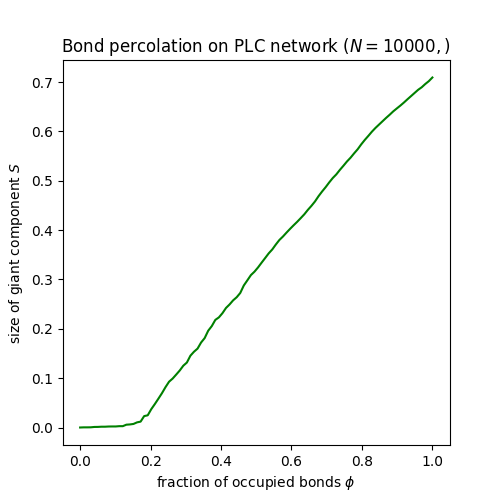
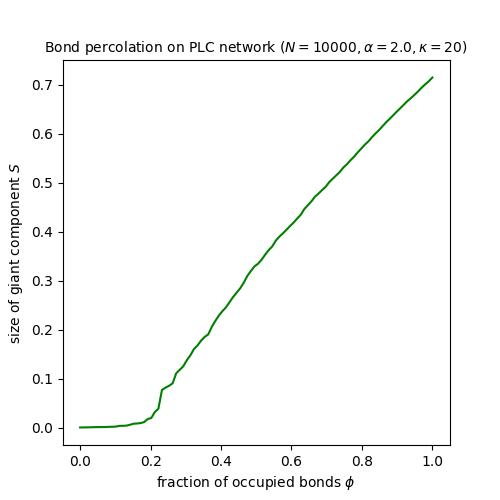
Fixed plot generation for new data format, added ER networks

diff --git a/utils/make-percolation.py b/utils/make-percolation.py
@@ -1,6 +1,6 @@
 # Create the percolation diagrams for the Newman-Ziff algorithm
 #
-# Copyright (C) 2017--2021 Simon Dobson
+# Copyright (C) 2017--2022 Simon Dobson
 #
 # This file is part of epydemic, epidemic network simulations in Python.
 #
@@ -17,51 +17,83 @@
 # You should have received a copy of the GNU General Public License
 # along with epydemic. If not, see <http://www.gnu.org/licenses/gpl.html>.
 
-from epydemic import BondPercolation, SitePercolation, PLCNetwork
+from epydemic import BondPercolation, SitePercolation, ERNetwork, PLCNetwork
 from epyc import Experiment
 import matplotlib.pyplot as plt
 
 # network topological parameters
 N = 10000
+kmean = 20
 alpha = 2.0
 kappa = 20
 
 params = dict()
+params[ERNetwork.N] = N
+params[ERNetwork.KMEAN] = kmean
 params[PLCNetwork.N] = N
 params[PLCNetwork.EXPONENT] = alpha
 params[PLCNetwork.CUTOFF] = kappa
 
-# construct a network
-g = PLCNetwork().set(params).generate()
+# construct networks
+g_er = ERNetwork().set(params).generate()
+g_plc = PLCNetwork().set(params).generate()
 
-# bond-percolate the network
-e = BondPercolation(g)
-rcs = e.set(params).run()
+# bond-percolate the networks
+e_er = BondPercolation(g_er)
+rc_er = e_er.set(params).run()
+e_plc = BondPercolation(g_plc)
+rc_plc = e_plc.set(params).run()
 
-# figure 1: the bond percolation behaviour
+# figure 1a: the bond percolation behaviour of an ER network
 fig = plt.figure(figsize=(5, 5))
 
-xs = [rc[Experiment.RESULTS][BondPercolation.P] for rc in rcs]
-ys = [rc[Experiment.RESULTS][BondPercolation.GCC] / N for rc in rcs]
+xs = rc_er[Experiment.RESULTS][BondPercolation.P]
+ys = [gcc / N for gcc in rc_er[Experiment.RESULTS][BondPercolation.GCC]]
 plt.plot(xs, ys, 'g-')
 
 plt.xlabel('fraction of occupied bonds $\phi$')
 plt.ylabel('size of giant component $S$')
-plt.title(f'Bond percolation on PLC network ($N = {N}, \alpha = {alpha}, \\kappa={kappa}$)')
-plt.savefig('doc/cookbook/bond-percolation-plc.png')
+plt.title(f'Bond percolation on ER network ($N = {N}, \\langle k \\rangle = {kmean}$)', size='medium')
+plt.savefig('doc/cookbook/bond-percolation-er.png')
 
-# site-percolate the network
-e = SitePercolation(g)
-rcs = e.set(params).run()
-
-# figurer 2: site percolation behaviour
+# figure 1b: the bond percolation behaviour of a PLC network
 fig = plt.figure(figsize=(5, 5))
 
-xs = [rc[Experiment.RESULTS][SitePercolation.P] for rc in rcs]
-ys = [rc[Experiment.RESULTS][SitePercolation.GCC] / N for rc in rcs]
+xs = rc_plc[Experiment.RESULTS][BondPercolation.P]
+ys = [gcc / N for gcc in rc_plc[Experiment.RESULTS][BondPercolation.GCC]]
+plt.plot(xs, ys, 'g-')
+
+plt.xlabel('fraction of occupied bonds $\phi$')
+plt.ylabel('size of giant component $S$')
+plt.title(f'Bond percolation on PLC network ($N = {N}, \\alpha = {alpha}, \\kappa={kappa}$)', size='medium')
+plt.savefig('doc/cookbook/bond-percolation-plc.png')
+
+# site-percolate the networks
+e_er = SitePercolation(g_er)
+rc_er = e_er.set(params).run()
+e_plc = SitePercolation(g_plc)
+rc_plc = e_plc.set(params).run()
+
+# figurer 2a: site percolation behaviour for an ER network
+fig = plt.figure(figsize=(5, 5))
+
+xs = rc_er[Experiment.RESULTS][SitePercolation.P]
+ys = [gcc / N for gcc in rc_er[Experiment.RESULTS][SitePercolation.GCC]]
 plt.plot(xs, ys, 'g-')
 
 plt.xlabel('fraction of occupied sites $\phi$')
 plt.ylabel('size of giant component $S$')
-plt.title('Site percolation on PLC network ($N = {N}, \alpha = {alpha}, \\kappa={kappa}$)')
+plt.title(f'Site percolation on ER network ($N = {N}, \\langle k \\rangle = {kmean}$)', size='medium')
+plt.savefig('doc/cookbook/site-percolation-er.png')
+
+# figurer 2a: site percolation behaviour for a PLC network
+fig = plt.figure(figsize=(5, 5))
+
+xs = rc_plc[Experiment.RESULTS][SitePercolation.P]
+ys = [gcc /  N for gcc in rc_plc[Experiment.RESULTS][SitePercolation.GCC]]
+plt.plot(xs, ys, 'g-')
+
+plt.xlabel('fraction of occupied sites $\phi$')
+plt.ylabel('size of giant component $S$')
+plt.title(f'Site percolation on PLC network ($N = {N}, \\alpha = {alpha}, \\kappa={kappa}$)', size='medium')
 plt.savefig('doc/cookbook/site-percolation-plc.png')
